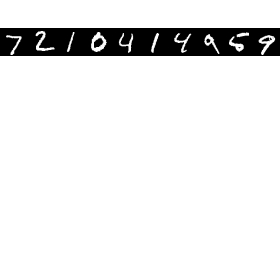
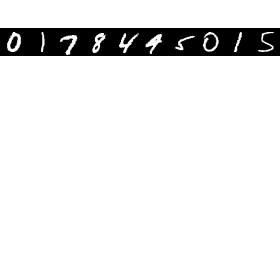
webアプリケーション化

diff --git a/flask/templates/test.html b/flask/templates/test.html
@@ -1,0 +1,10 @@
+<!DOCTYPE html>
+<html>
+    <head>
+    </head>
+    <body>
+        <p>{{ result }}</p>
+        <br>
+        <img src="../outputs/mnist.jpg" alt="pic01">
+    </body>
+</html>

diff --git a/ch05/testfunction.py b/ch05/testfunction.py
@@ -1,0 +1,100 @@
+#========= (誤差逆伝播を使った)学習=============(5.7.4)
+#２層ニューラルネットワークのクラス
+
+def test():
+    import sys
+    sys.path.append('../')
+    import numpy as np
+    import matplotlib.pyplot as plt
+    from dataset.mnist import load_mnist
+    from two_layers_net import TwoLayerNet
+    from PIL import Image #画像表示にはPILモジュールを使う。
+
+    # ================== ミニバッチ学習の実装 ==================
+    (x_train, t_train), (x_test, t_test) = load_mnist(normalize=True, one_hot_label=True)
+    #=======================================================
+
+    # ================== ディープラーニングのモデルを定義 ==================
+    network = TwoLayerNet(input_size=784, hidden_size=50, output_size=10) #NNのインスタンス生成
+    # =======================================================
+
+    #====== ハイパーパラメータ ======
+    iters_num = 10000 #勾配によるパラメータ更新回数(iterarion = 繰り返し)
+    train_size = x_train.shape[0] #訓練データのサイズはx_trainデータ形状の0次元の数 = 60000枚　x_train.shape = 60000枚 * 784(28*28)ピクセル
+    batch_size = 100 #60000枚のうち100枚ごと学習を行う
+    learning_rate = 0.1 #学習率
+
+    train_loss_list = [] #学習ごとの損失関数を格納するためのリスト
+    train_acc_list = [] #学習における正確率
+    test_acc_list = [] #テストにおける正確率
+    #============================
+
+    iter_per_epoch = max(train_size / batch_size, 1) #1エポックあたりの繰り返し数　エポック=訓練データをすべて使い切った回数。60000/100枚 回勾配を行った = １エポック学習を行った。
+
+    # 学習フェーズ
+    print("学習開始")
+    #何枚の画像で学習したか(画像のシェイプも)
+    #開始時間取得
+    for i in range (iters_num): #10000回繰り返し
+        #===== ミニバッチの取得 =====
+        batch_mask = np.random.choice(train_size, batch_size) #train_size枚の中からbatch_size枚ランダムで配列で取り出す
+        x_batch = x_train[batch_mask] #100個の入力画像
+        t_batch = t_train[batch_mask] #100個の入力画像に対する正解データ
+
+        #====== 勾配計算 =====
+        #数値微分
+        # grad = network.numerical_gradient(x_batch, t_batch)
+        #誤差逆伝播法　高速！ 
+        grad = network.gradient(x_batch, t_batch)
+
+        #====== パラメータ更新 ======
+        for key in ('W1', 'b1', 'W2', 'b2'):
+            network.params[key] -= learning_rate * grad[key]
+        
+        #====== 学習経過の記録 ========
+        # loss = network.loss(x_batch, t_batch)
+        # train_loss_list.append(loss)
+    #終了時間取得
+    #print(終了ー開始)
+
+    #1エポックごとにテストデータで認識精度を計算　計算に時間がかかるのでざっくりと。
+    # if i % iter_per_epoch == 0:
+    print("テスト開始")
+    #開始時間取得
+    test_size = x_test.shape[0]
+    batch_mask = np.random.choice(test_size, 10) #train_size枚の中からbatch_size枚ランダムで配列で取り出す
+    x_test = x_test[batch_mask] #100個の入力画像
+    t_test = t_test[batch_mask] #100個の入力画像に対する正解データ
+    test_acc = network.accuracy(x_test, t_test)
+    test_acc_list.append(test_acc)
+    #終了時間取得
+    #print(終了ー開始)
+    print("test acc: "+ str(test_acc))
+    #============================================
+
+    def ConvertToImg(img):
+        return Image.fromarray(np.uint8(img))
+    # MNIST一文字の幅
+    chr_w = 28
+    # MNIST一文字の高さ
+    chr_h = 28
+    # 表示する文字数
+    num = 20
+    # MNISTの文字をPILで１枚の画像に描画する
+    canvas = Image.new('RGB', (int(chr_w * num/2), int(chr_h * num/2)), (255, 255, 255))
+    # MNISTの文字を読み込んで描画
+    i = 0
+    (x_train, t_train), (x_test, t_test) = \
+    load_mnist(flatten=True, normalize=False)
+
+    for x in range( int(num/2) ):
+        chrImg = ConvertToImg(x_test[i].reshape(chr_w, chr_h))
+        canvas.paste(chrImg, (chr_w*x, chr_h))
+        i = i + 1
+
+    canvas.show()
+    # 表示した画像をJPEGとして保存
+    canvas.save('mnist.jpg', 'JPEG', quality=100, optimize=True)
+
+    
+    return "test acc: "+ str(test_acc)

diff --git a/ch03/mnist_image_show.py b/ch03/mnist_image_show.py
@@ -31,12 +31,21 @@ def img_show(img):
   # print(pil_img)
   pil_img.show()
 #--------------------入力する訓練データ-------------------------
-img = x_test[3263]
+img = x_test[3200]
 print(img[0])
-img[0] = 255
+# img[0] = 255
 # print("img.shape", img.shape) #784
 #------------------- 正解は？----------------------------
-label = t_test[3263]
+label = t_test[3200]
+k = 0
+aaa = []
+for i in range(28):
+  for j in range(28):
+    aaa.append(img[k])
+    k += 1
+  print(aaa)
+  aaa = []
+  
 # print("正解", label) #正解のデータ 5
 #-------------------変形してimg.show()に入れて実行 --------------------
 img = img.reshape(28, 28)

diff --git a/ch05/test.py b/ch05/test.py
@@ -85,9 +85,14 @@ i = 0
 (x_train, t_train), (x_test, t_test) = \
   load_mnist(flatten=True, normalize=False)
 
-for x in range( int(num/2) ):
-    chrImg = ConvertToImg(x_test[i].reshape(chr_w, chr_h))
-    canvas.paste(chrImg, (chr_w*x, chr_h))
+# for x in range( int(num/2) ):
+#     chrImg = ConvertToImg(x_test[i].reshape(chr_w, chr_h))
+#     canvas.paste(chrImg, (chr_w*x, chr_h))
+#     i = i + 1
+
+for item in batch_mask:
+    chrImg = ConvertToImg(x_test[item].reshape(chr_w, chr_h))
+    canvas.paste(chrImg, (chr_w*i, chr_h))
     i = i + 1
 
 canvas.show()

diff --git a/flask/server.py b/flask/server.py
@@ -1,0 +1,19 @@
+from flask import Flask, render_template
+import sys
+sys.path.append('../ch05/')
+import testfunction
+app = Flask(__name__, static_folder='outputs')
+
+@app.route('/')
+def index():
+    # print(testfunction.test())
+    return testfunction.test()
+
+@app.route('/image')
+def image():
+    result = testfunction.test()
+    return render_template('test.html', result = result)
+
+
+if __name__ == '__main__':
+     app.run(debug=True, host='0.0.0.0', port=8080)

diff --git a/ch05/executeTestfunction.py b/ch05/executeTestfunction.py
@@ -1,0 +1,3 @@
+import testfunction
+
+testfunction.test()
